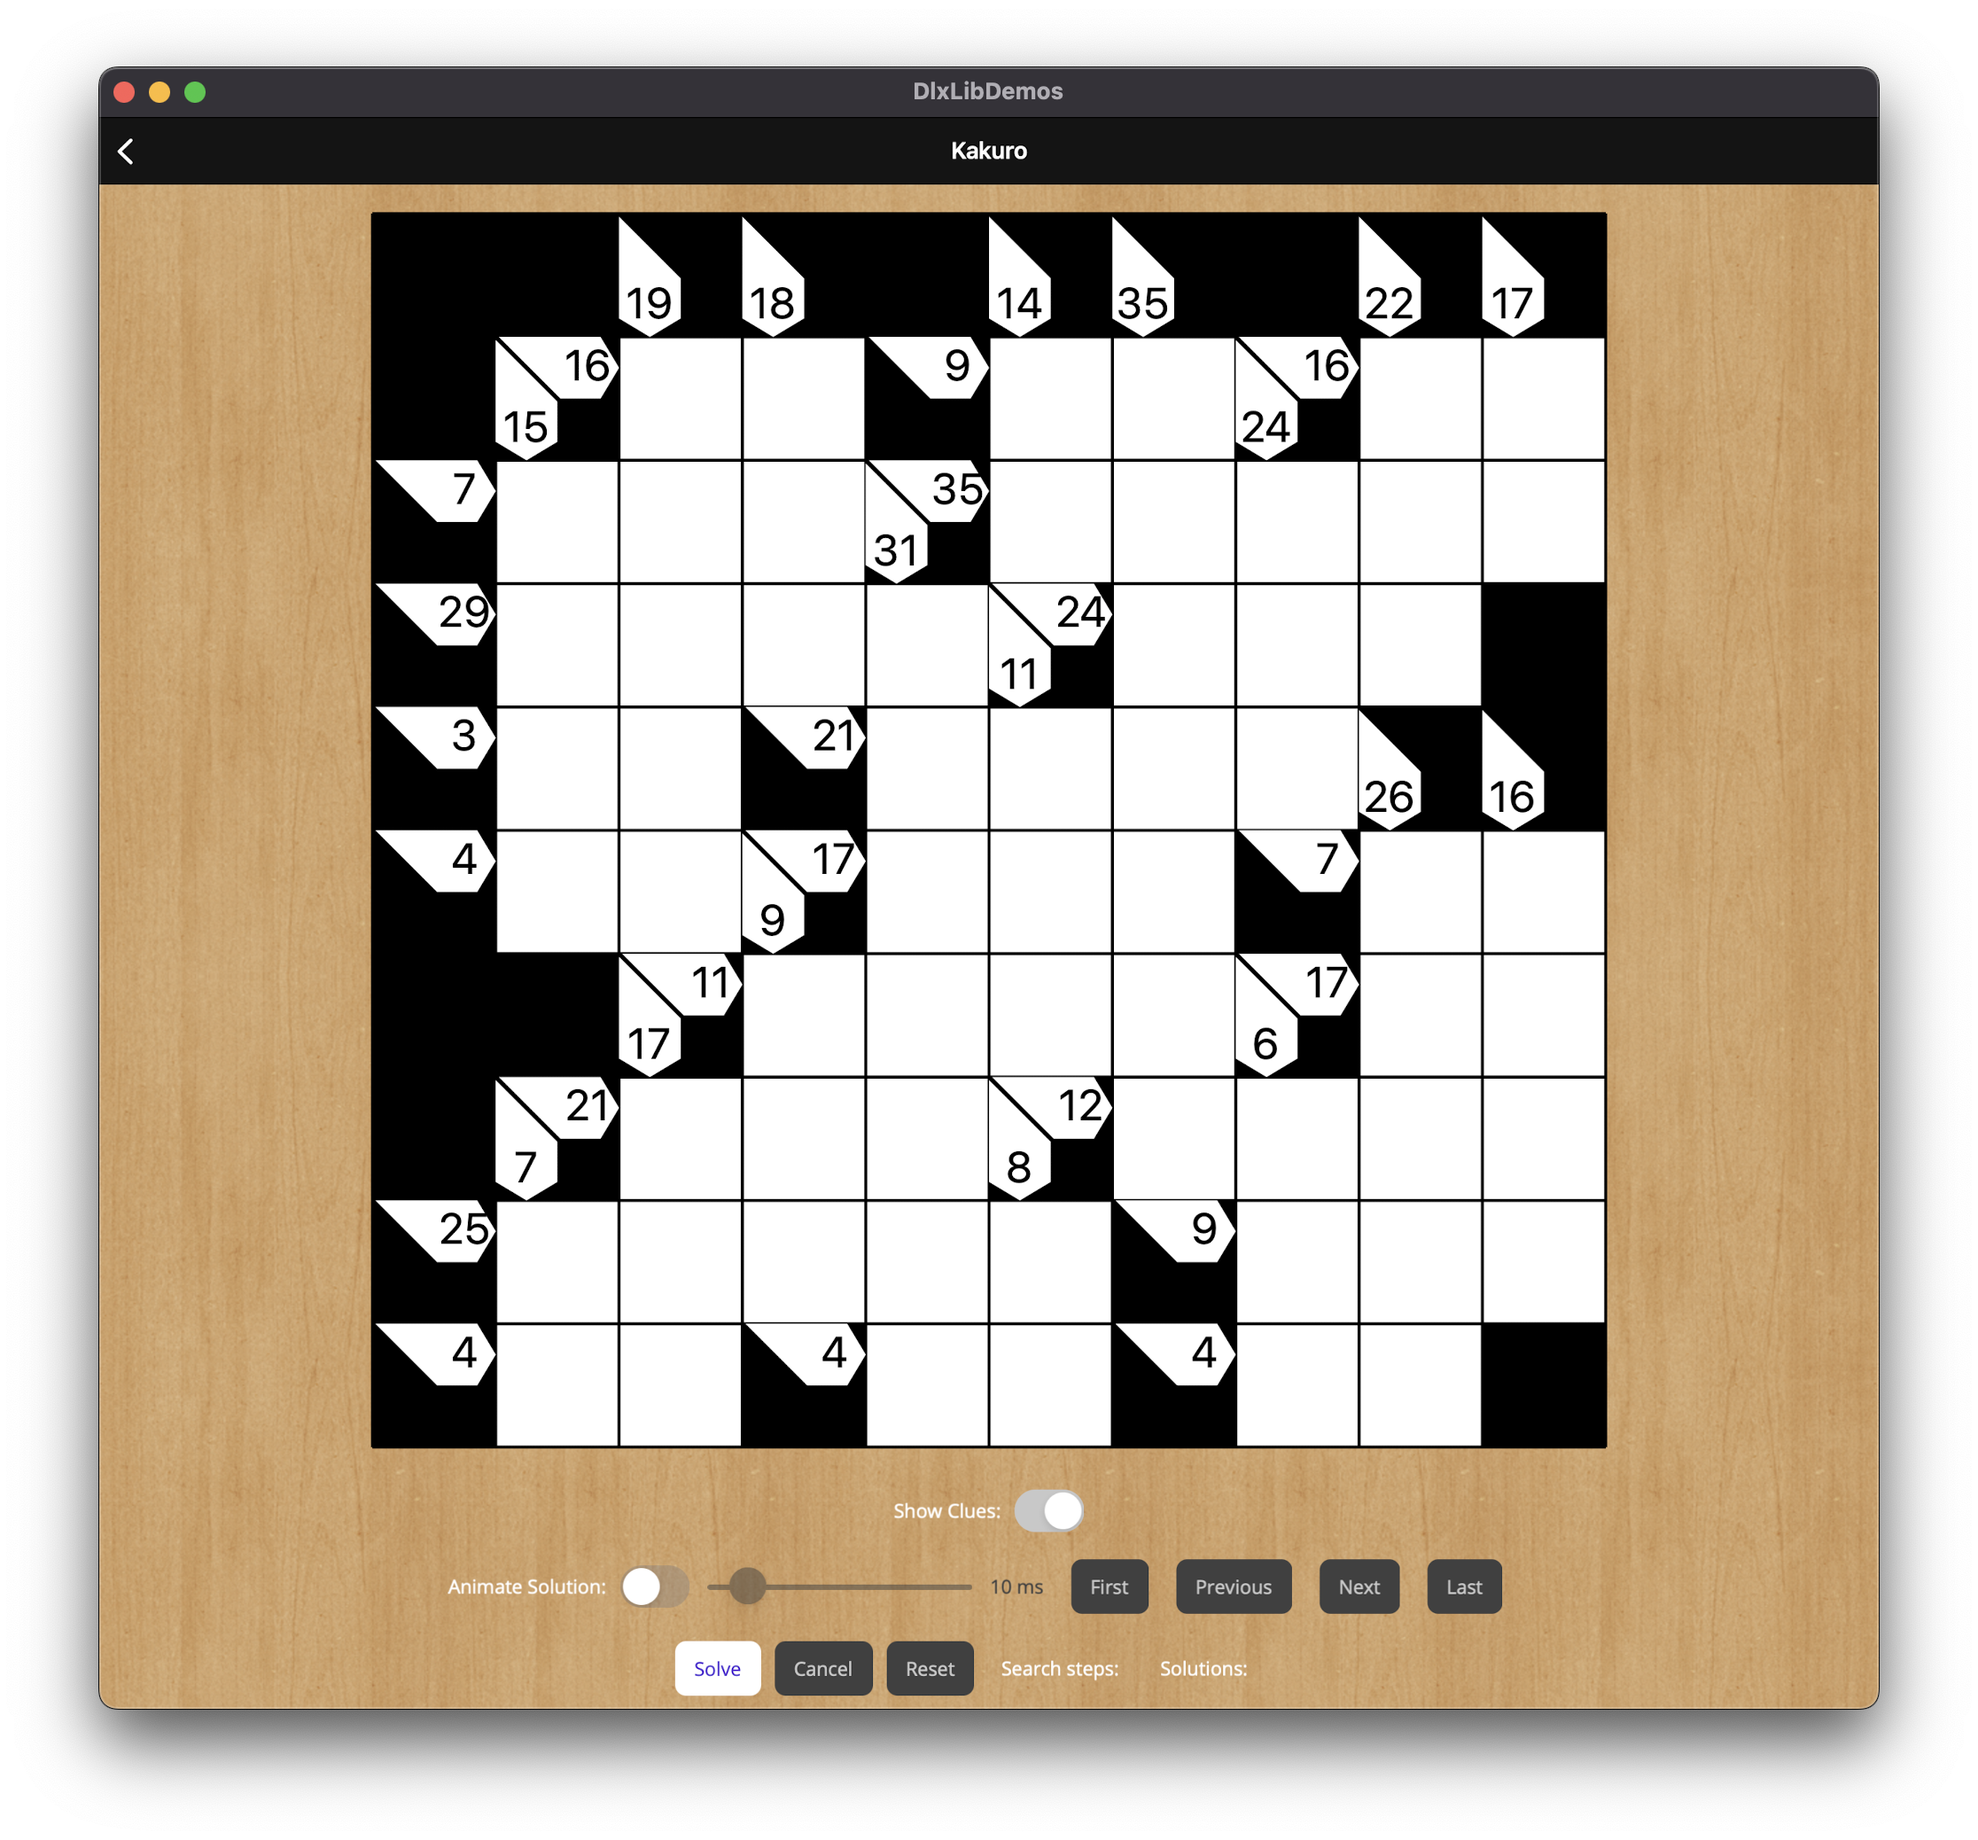
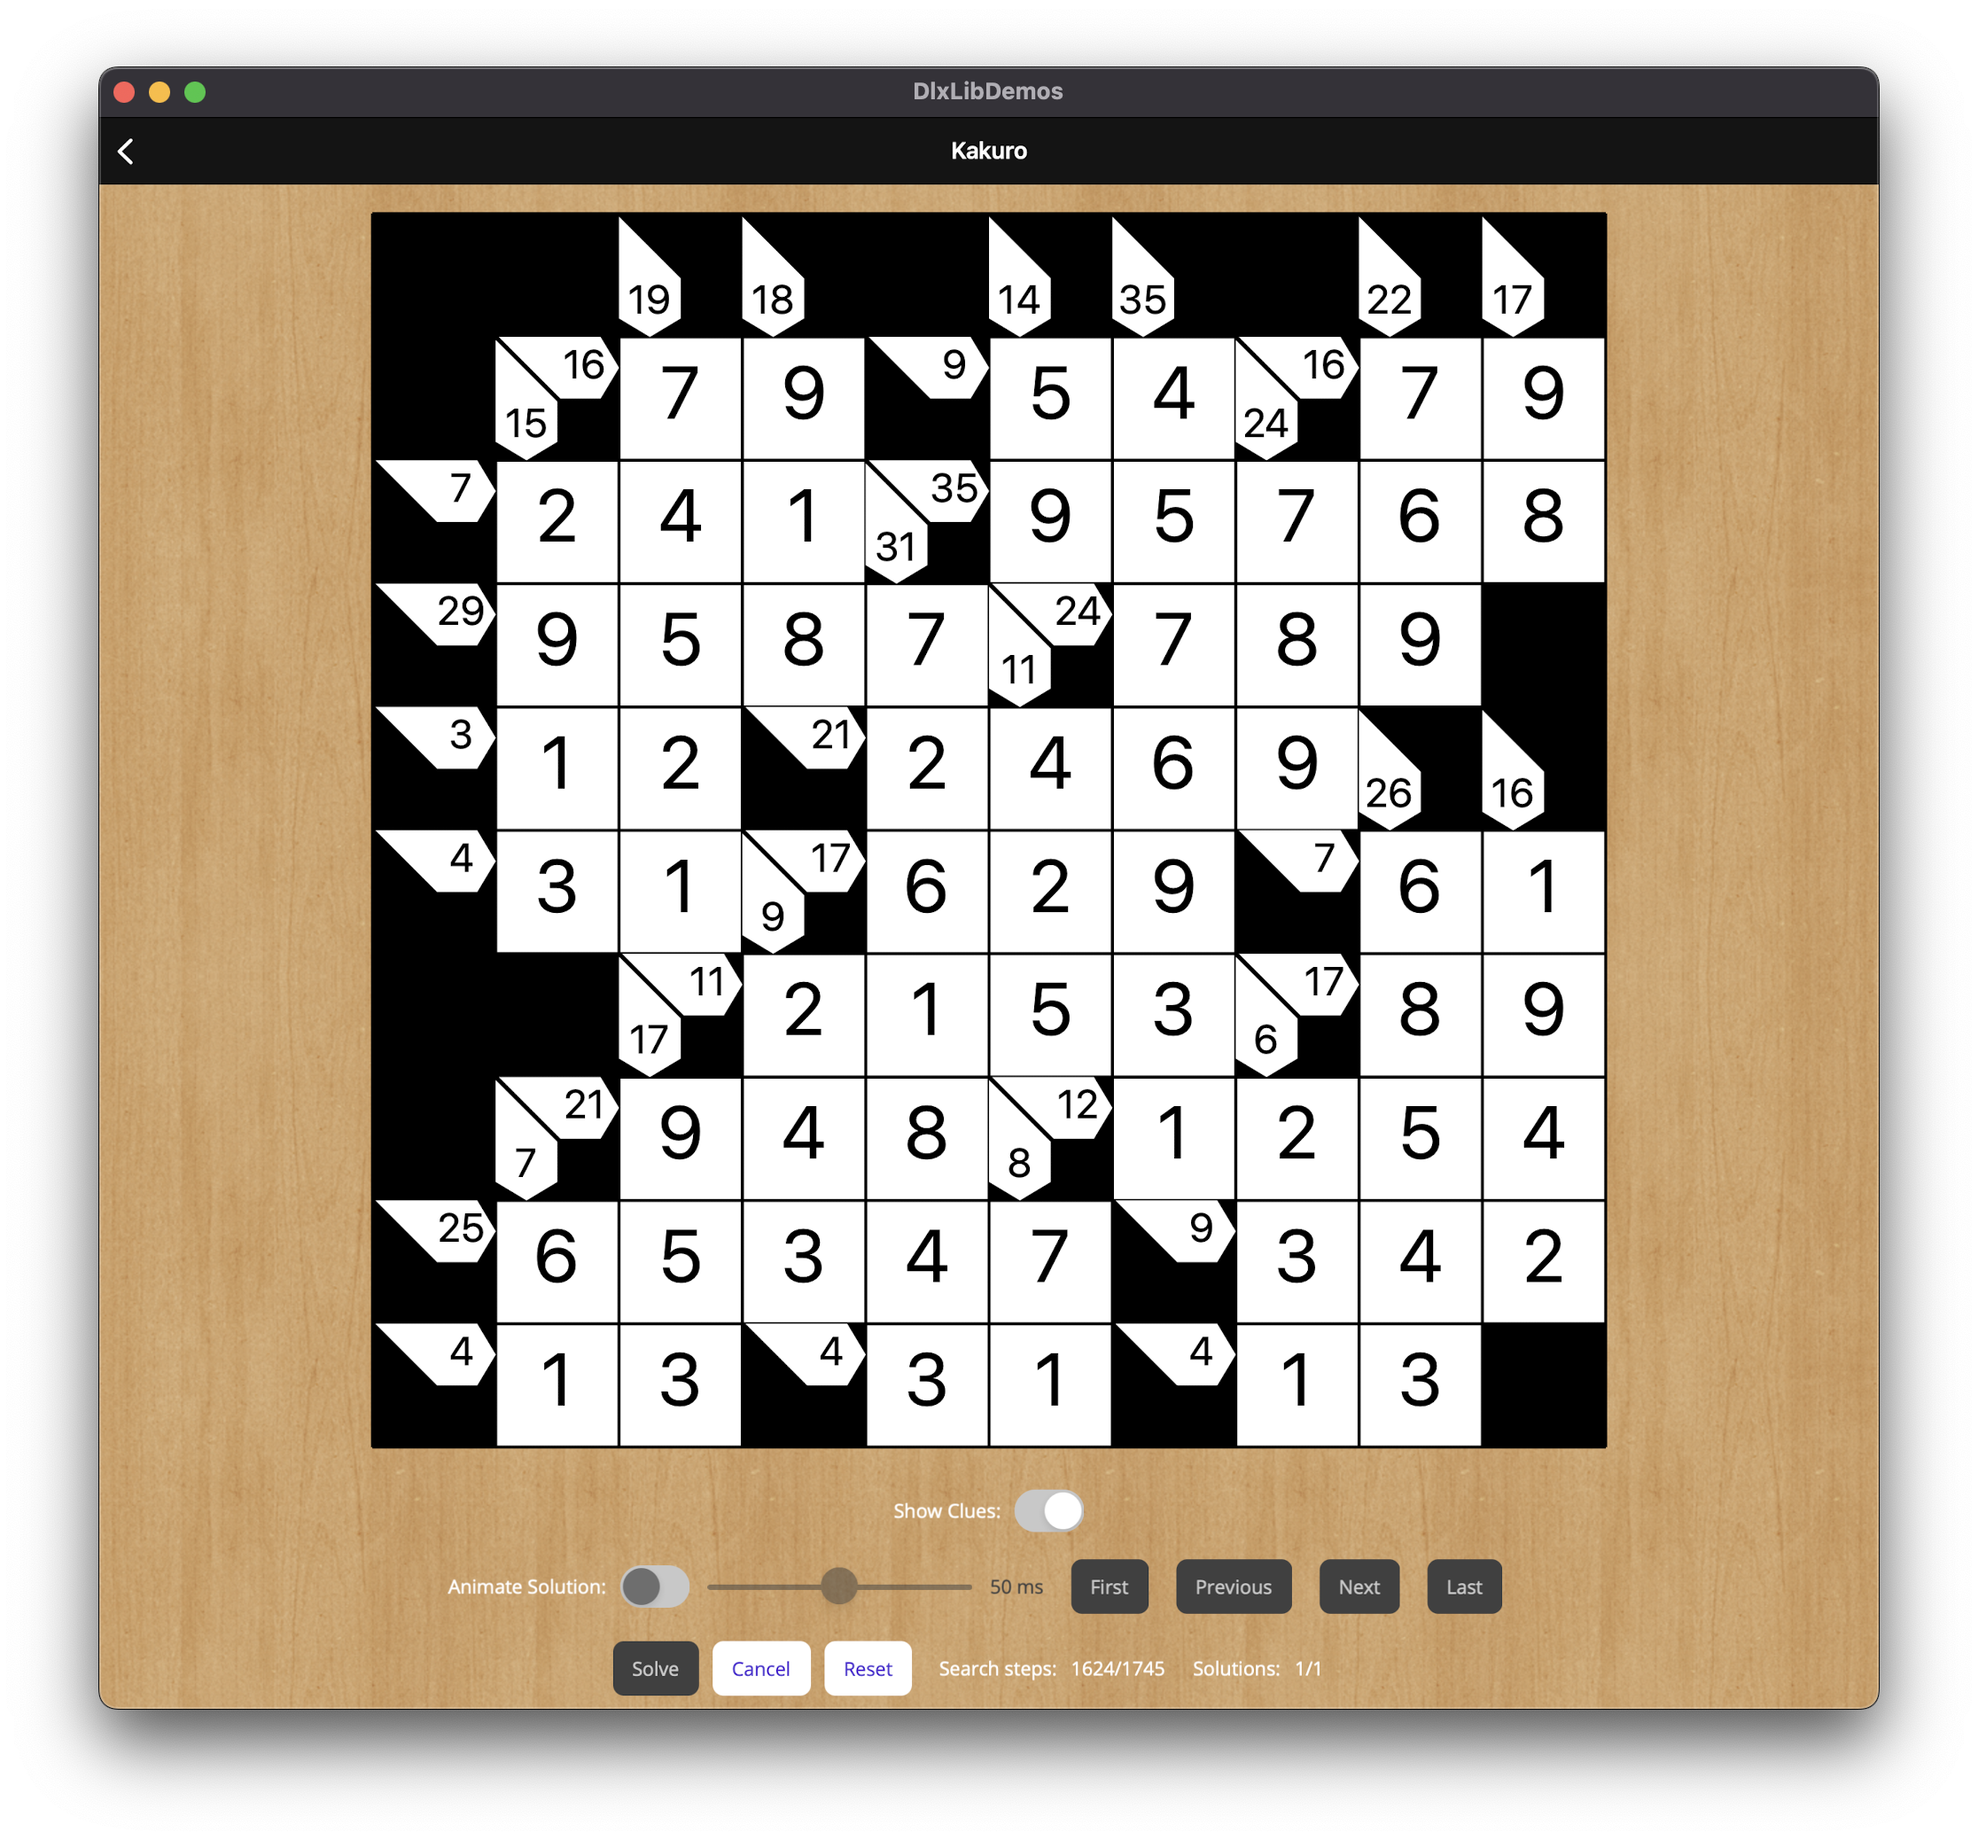
Static thumbnail and update screenshot

diff --git a/DlxLibDemos/Demos/Kakuro/Other/StaticThumbnailWhatToDraw.cs b/DlxLibDemos/Demos/Kakuro/Other/StaticThumbnailWhatToDraw.cs
@@ -1,0 +1,62 @@
+namespace DlxLibDemos.Demos.Kakuro;
+
+public class KakuroStaticThumbnailWhatToDraw : IWhatToDraw
+{
+  public object DemoSettings { get; private init; }
+  public object DemoOptionalSettings { get; private init; }
+  public object[] SolutionInternalRows { get; private init; }
+
+  public KakuroStaticThumbnailWhatToDraw()
+  {
+    var puzzle = Puzzles.ThePuzzles.First();
+
+    var solution = new[] {
+      "..........",
+      "..79.54.79",
+      ".241.95768",
+      ".9587.789.",
+      ".12.2469..",
+      ".31.629.61",
+      "...2153.89",
+      "..948.1254",
+      ".65347.342",
+      ".13.31.13."
+    };
+
+    var dict = ParseValues(solution);
+
+    SolutionInternalRows = puzzle.HorizontalRuns
+      .Select(run =>
+      {
+        var values = run.CoordsList
+          .Select(coords => dict[coords])
+          .ToArray();
+        return new KakuroInternalRow(puzzle, run, values);
+      })
+      .ToArray();
+
+    DemoOptionalSettings = true;
+  }
+
+  private static Dictionary<Coords, int> ParseValues(string[] solution)
+  {
+    var dict = new Dictionary<Coords, int>();
+
+    var size = solution.Length;
+
+    foreach (var row in Enumerable.Range(0, size))
+    {
+      foreach (var col in Enumerable.Range(0, size))
+      {
+        var ch = solution[row][col];
+        if (int.TryParse(ch.ToString(), out int value))
+        {
+          var coords = new Coords(row, col);
+          dict[coords] = value;
+        }
+      }
+    }
+
+    return dict;
+  }
+}

diff --git a/DlxLibDemos/Demos/Kakuro/Drawable.cs b/DlxLibDemos/Demos/Kakuro/Drawable.cs
@@ -147,10 +147,10 @@ public class KakuroDrawable : IDrawable
     var sumString = sum.ToString();
     var width = _squareWidth / 2;
     var height = _squareHeight / 2;
-    var x = CalculateX(coords.Col) + width;
+    var x = CalculateX(coords.Col) + width - _gridLineFullThickness;
     var y = CalculateY(coords.Row);
     canvas.FontColor = Colors.Black;
-    canvas.FontSize = _squareWidth * 0.35f;
+    canvas.FontSize = _squareWidth * 0.325f;
     canvas.DrawString(
       sumString,
       x,
@@ -188,9 +188,9 @@ public class KakuroDrawable : IDrawable
     var width = _squareWidth / 2;
     var height = _squareHeight / 2;
     var x = CalculateX(coords.Col);
-    var y = CalculateY(coords.Row) + height;
+    var y = CalculateY(coords.Row) + height - _gridLineFullThickness;
     canvas.FontColor = Colors.Black;
-    canvas.FontSize = _squareWidth * 0.35f;
+    canvas.FontSize = _squareWidth * 0.325f;
     canvas.DrawString(
       sumString,
       x,

diff --git a/DlxLibDemos/Demos/Kakuro/ThumbnailDrawable.cs b/DlxLibDemos/Demos/Kakuro/ThumbnailDrawable.cs
@@ -2,8 +2,8 @@ namespace DlxLibDemos.Demos.Kakuro;
 
 public class KakuroThumbnailDrawable : KakuroDrawable
 {
-  public KakuroThumbnailDrawable(KakuroDemo demo)
-    : base(new ThumbnailWhatToDraw(demo, null, true))
+  public KakuroThumbnailDrawable()
+    : base(new KakuroStaticThumbnailWhatToDraw())
   {
   }
 }
